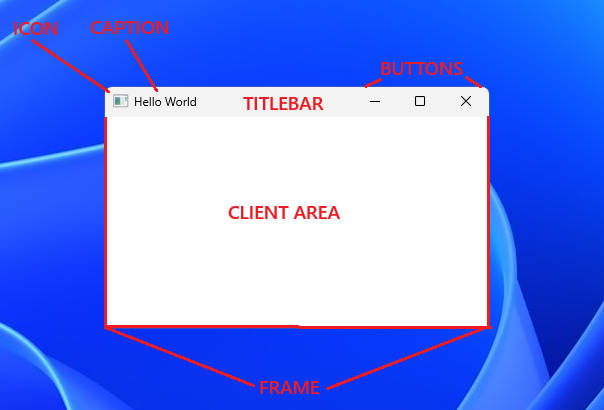
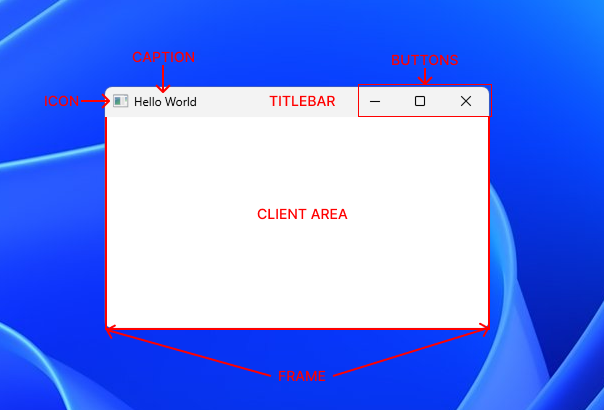
window

diff --git a/window.md b/window.md
@@ -2,7 +2,7 @@
 
 A window is a fundamental unit of the Windows GUI. It represents a rectangular region on the screen.
 
-Windows are not just top level application windows with a titlebar and borders, but can be any type of UI
+Windows are not just top-level application windows with a titlebar and borders, but can be any type of UI
 control (e.g. buttons, lists...etc).
 
 The type of a window is `HWND` which is an opaque handle to the window which is managed by Windows OS.
@@ -16,7 +16,7 @@ but you can create custom ones using [RegisterClass](#registerclass).
 
 For the main application window, you'd typically register your own custom class.
 
-There are 3 general categories of windows in terms of [ownership](#ownership): top level, top level with parent, and child window.
+There are 3 general categories of windows in terms of [ownership](#ownership): top-level, owned top-level, and child window.
 
 Event handling is done via a [message loop](#message-loop) and the [window procedure](#window-procedure) callback.
 
@@ -47,6 +47,8 @@ To do that, we call a `RegisterClass` function and pass it a pointer to a `WNDCL
 - RegisterClassExA
 - RegisterClassExW - modern, preferred
 
+You can use a macro like `RegisterClass` or `RegisterClassEx` that resolves based on the unicode settings.
+
 `WNDCLASS` structs:
 
 - WNDCLASSA
@@ -54,23 +56,28 @@ To do that, we call a `RegisterClass` function and pass it a pointer to a `WNDCL
 - WNDCLASSEXA
 - WNDCLASSEXW - modern, preferred
 
+You can use an alias like `WNDCLASS` or `WNDCLASSEX` that resolves based on the unicode settings.
+
 `WNDCLASS` members:
 
-- [style](#class-styles) - bitmask for setting additional window behavior(s). **Required**.
-- [lpfnWndProc](#window-procedure) - pointer to the window event handler callback. **Required**.
-- hInstance - handle to the executable module, usually the hInstance argument you get in WinMain (wWinMain). **Required**.
-- [hIcon](#icons) - handle to an icon resource used as the window icon.
-- [hCursor](#cursors) - handle to a cursor resource use as the window cursor icon.
-- hbrBackground - handle to a brush used to paint the window client area background using GDI.
-- lpszMenuName - string that specifies the resource name of a menu as it appears in your .rc file.
-- lpszClassName - string that identifies this class. Could also be an ATOM returned by a previous call to RegisterClass.
-- cbClsExtra - number of extra bytes to allocate for per-class custom app data. Rarely used today.
-- cbWndExtra - number of extra bytes to allocate for per-window custom app data.
+Required:
 
-`WNDCLASSEX` only members:
+- `style` - bitmask for setting [class styles](#class-styles).
+- `lpfnWndProc` - pointer to the [window procedure](#window-procedure) callback.
+- `hInstance` - handle to the executable module, like the hInstance parameter of WinMain or acquired with GetModuleHandle.
+- `lpszClassName` - string that identifies this class.
+- `cbSize` - the size of the structure in bytes. Set it to `sizeof(WNDCLASSEX)`. Used so that win32 knows
+  which version of `WNDCLASS` you're using. Extended only.
 
-- cbSize - the size of the structure in bytes. Usually `sizeof(WNDCLASSEX)`. **Required**.
-- [hIconSm](#icons) - a handle to an icon resource used as the small window icon.
+Optional:
+
+- `hIcon` - handle to an icon resource used as the [window icon](#icons).
+- `hIconSm` - a handle to an icon resource used as the small [window icon](#icons). Extended only.
+- `hCursor` - handle to a cursor resource use as the [window cursor](#cursors) icon.
+- `hbrBackground` - handle to a brush used to paint the window client area background using GDI.
+- `lpszMenuName` - string that specifies the resource name of a menu as it appears in your .rc file.
+- `cbClsExtra` - number of extra bytes to allocate for per-class custom app data. Rarely used today.
+- `cbWndExtra` - number of extra bytes to allocate for per-window custom app data.
 
 Example:
 
@@ -81,9 +88,9 @@ LRESULT CALLBACK windowProc(HWND hwnd, UINT uMsg, WPARAM wParam, LPARAM lParam);
 int WINAPI wWinMain(HINSTANCE hInstance, HINSTANCE hPrevInstance, PWSTR pCmdLine, int nCmdShow) {
   WNDCLASSEX wc = {0};
   wc.cbSize = sizeof(WNDCLASSEX);
-  wc.lpfnWndProc = windowProc; // callback defined elsewhere
+  wc.lpfnWndProc = windowProc; // callback declared above
   wc.hInstance = hInstance;
-  wc.lpszClassName = L"MyWindowClass";
+  wc.lpszClassName = L"MyWindowClass"; // L to treat it as WCHAR (Unicode)
 
   ATOM classAtom = RegisterClassEx(&wc);
 
@@ -91,14 +98,74 @@ int WINAPI wWinMain(HINSTANCE hInstance, HINSTANCE hPrevInstance, PWSTR pCmdLine
     return EXIT_FAILURE;
   }
 
-  // Proceed with creating windows...etc.
+  // Proceed with creating window...etc.
 }
 
 ```
 
 ## CreateWindow
 
-// TODO
+To create a window, we call one of the `CreateWindow` functions:
+
+- CreateWindowA
+- CreateWindowW
+- CreateWindowExA
+- CreateWindowExW - modern, preferred
+
+You can use a macro like `CreateWindow` or `CreateWindowEx` that resolves based on the unicode settings.
+
+and pass in these parameters:
+
+Required:
+
+- `lpClassName` - string that identifies a registered class or an ATOM returned by a previous call to RegisterClass wrapped with MAKEINTATOM.
+- `X` - horizontal upper-left corner position of the window. For top-level windows, it's relative to the screen,
+  and for child windows it's relative to the upper-left corner of the parent's client area.
+- `Y` - vertical upper-left corner position of the window. For top-level windows, it's relative to the screen,
+  and for child windows it's relative to the upper-left corner of the parent's client area.
+- `nWidth` - width of the window in device units.
+- `nHeight` - height of the window in device units.
+
+Optional:
+
+- `dwExStyle` - bitmask for setting [extended window styles](#extended-window-styles).
+- `lpWindowName` - string that appears as the caption for windows with titlebars, button text for standard Button control...etc.
+- `dwStyle` - bitmask for setting [window styles](#window-styles).
+- `hWndParent` - handle to the parent or owner window. Required for child windows, optional for top-level windows.
+- `hMenu` - handle to a menu or child window identifier.
+- `hInstance` - handle to executable module. Only required in rare cases.
+- `lpParam` - arbitrary pointer that will be available as `CREATESTRUCT.lpCreateParams` in `WM_CREATE` `lParam`.
+  You can use it to pass custom data to [window procedure](#window-procedure). Required for MDI.
+
+Example:
+
+```cpp
+const wchar_t className[] = L"MyWindowClass";
+
+// WNDCLASS struct creation
+
+ATOM classAtom = RegisterClass(&wc);
+
+HWND hwnd = CreateWindowEx(
+  0,
+  className, // or MAKEINTATOM(classAtom)
+  WS_OVERLAPPEDWINDOW | WS_VISIBLE,
+  100, // x
+  100, // y
+  1024, // width
+  768, // height
+  nullptr, // parent
+  nullptr, // menu
+  hInstance, // could be null in most cases
+  nullptr, // lParam
+)
+
+if (!hwnd) {
+  return EXIT_FAILURE;
+}
+
+// Proceed with the message loop, rendering...etc.
+```
 
 ## Ownership
 
@@ -138,8 +205,8 @@ Legacy feature, made obsolete by DWM.
 
 There are three base window styles that you can use as a starting point:
 
-- `WS_OVERLAPPED` - top level windows
-- `WS_POPUP` - special top level windows like dialogs, menus, splash screens...etc.
+- `WS_OVERLAPPED` - top-level windows
+- `WS_POPUP` - special top-level windows like dialogs, menus, splash screens...etc.
 - `WS_CHILD` - child windows that are visually constrained / clipped in a parent window.
 
 `WS_OVERLAPPED` produces a basic window with a frame and a minimal titlebar. No resizable border or window buttons.
@@ -151,9 +218,9 @@ Client area needs to be painted for the window to be visible. Easiest way to do 
 wc.hbrBackground = (HBRUSH)(COLOR_WINDOW + 1); // default, white background
 ```
 
-`WS_THICKFRAME` adds a resizable border and makes the titlebar taller. Its alias is `WS_SIZEBOX`.
+`WS_THICKFRAME` adds a resizable border and makes the titlebar taller (if there is a titlebar). Also adds a rounded border when used with `WS_POPUP`. Its alias is `WS_SIZEBOX`.
 
-`WS_SYSMENU` adds the window icon, system menu and window buttons. `WS_MINMIZEBOX` and `WS_MAXIMIZEBOX` are used
+`WS_SYSMENU` adds the window icon, system menu and window buttons. `WS_MINIMIZEBOX` and `WS_MAXIMIZEBOX` are used
 alongside it to add the minimize and maximize buttons.
 
 `WS_OVERLAPPEDWINDOW` is the full, standard overlapped window.
@@ -191,6 +258,10 @@ but only paint its own visible area. Mainly used with GDI.
 First created child window with `WS_GROUP` style marks the beginning of a group.
 
 `WS_TABSTOP` Makes a child window focusable via pressing Tab. Used with GDI.
+
+## Extended window styles
+
+// TODO
 
 ## Message loop
 

diff --git a/abbreviations.md b/abbreviations.md
@@ -220,6 +220,10 @@ Examples: `MCM_SETRANGE`, `MCM_GETCOLOR`, `MCM_GETRANGE`.
 
 Examples: `MCN_GETDAYSTATE`, `MCN_SELCHANGE`, `MCN_SELECT`.
 
+`MDI` Multiple document interface
+
+Examples: `MDICLIENT`, `DefMDIChildProcW`, `CreateMDIWindowW`.
+
 `NC` Non-client
 
 Examples: `WM_NCHITTEST`, `WM_NCCALCSIZE`, `WM_NCACTIVATE`.
@@ -298,7 +302,7 @@ Examples: `STN_CLICKED`, `STN_DBLCLK`, `STN_DISABLE`.
 
 `SZ` String, zero terminated
 
-Examples: `HSZ`.
+Examples: `HSZ`, `lpszClassName`.
 
 `T` Generic text type
 